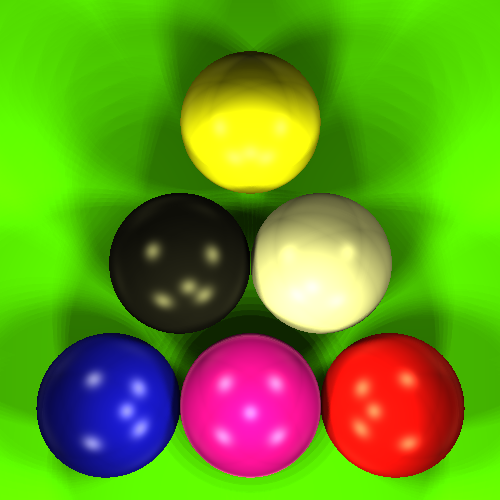
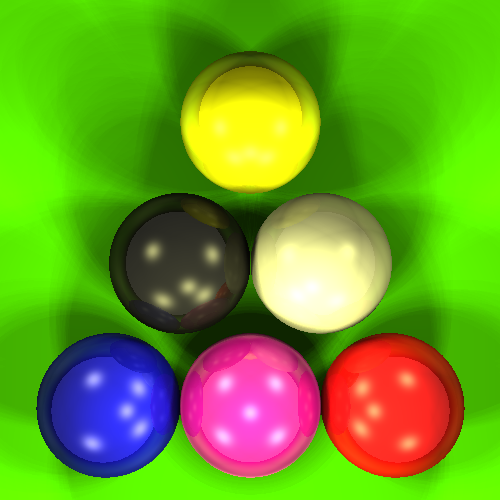
Added reflection

diff --git a/utils.py b/utils.py
@@ -12,6 +12,22 @@ def normalize(vector):
 def vector_dot(vec1, vec2):
     return np.sum(vec1 * vec2, axis=-1, keepdims=True)
 
+def render_img(scene, camera_ray_origins, camera_ray_directions):
+    img = np.full((camera_ray_origins.shape[0], 3), scene.settings.background_color, dtype=float)
+
+    t, nearest_objects = find_intersection(scene, camera_ray_origins, camera_ray_directions)
+    mask_inter = nearest_objects >= 0
+    img[mask_inter] = find_color(scene,
+                                 t[mask_inter],
+                                 nearest_objects[mask_inter],
+                                 camera_ray_origins[mask_inter],
+                                 camera_ray_directions[mask_inter])
+
+    img = np.clip(img, 0, 1) * 255.
+    img = img.astype(np.uint8)
+
+    return img
+
 def find_intersection(scene, ray_origins, ray_directions):
     min_t = np.full(ray_origins.shape[0], np.inf, dtype=float)
     nearest_objects = np.full(ray_origins.shape[0], -1, dtype=int)
@@ -28,74 +44,89 @@ def find_intersection(scene, ray_origins, ray_directions):
 
     return min_t, nearest_objects
 
-def find_color(scene, t, nearest_objects, camera_ray_origins, camera_ray_directions, img_height, img_width):
-    inter_points = camera_ray_origins + np.expand_dims(t, 1) * camera_ray_directions
-    mask_inter = nearest_objects >= 0
-    normals = np.empty((camera_ray_origins.shape[0], 3), dtype=float)
-    diff_colors = np.empty((camera_ray_origins.shape[0], 3), dtype=float)
-    spec_colors = np.empty((camera_ray_origins.shape[0], 3), dtype=float)
-    phong_coeffs = np.empty((camera_ray_origins.shape[0]), dtype=float)
+def find_color(scene, t, nearest_objects, source_ray_origins, source_ray_directions, recursion_count=1):
+    """
+    :param source_ray_origins: All the rays starting points (originally the camera)
+    :param source_ray_directions: All the rays directions (originally the intersection point)
+    """
+    inter_points = source_ray_origins + np.expand_dims(t, 1) * source_ray_directions
+    normals = np.empty((source_ray_origins.shape[0], 3), dtype=float)
+    diff_colors = np.empty((source_ray_origins.shape[0], 3), dtype=float)
+    spec_colors = np.empty((source_ray_origins.shape[0], 3), dtype=float)
+    phong_coeffs = np.empty((source_ray_origins.shape[0]), dtype=float)
+    reflect_colors = np.empty((source_ray_origins.shape[0], 3), dtype=float)
 
     for i in range(normals.shape[0]):
         object_idx = nearest_objects[i]
-        if object_idx >= 0:
-            normals[i] = scene.objects[object_idx].get_normal(inter_points[i])
-            diff_colors[i] = scene.objects[object_idx].material.diffuse_color
-            spec_colors[i] = scene.objects[object_idx].material.specular_color
-            phong_coeffs[i] = scene.objects[object_idx].material.phong_specularity_coefficient
+        # if object_idx >= 0:
+        normals[i] = scene.objects[object_idx].get_normal(inter_points[i])
+        diff_colors[i] = scene.objects[object_idx].material.diffuse_color
+        spec_colors[i] = scene.objects[object_idx].material.specular_color
+        phong_coeffs[i] = scene.objects[object_idx].material.phong_specularity_coefficient
+        reflect_colors[i] = scene.objects[object_idx].material.reflection_color
 
-    colors = calc_diffuse_specular_color(scene,
+    diff_spec_colors = calc_diffuse_specular_color(scene,
                                          inter_points,
-                                         camera_ray_directions,
+                                         source_ray_directions,
                                          normals,
                                          diff_colors,
                                          spec_colors,
-                                         phong_coeffs,
-                                         mask_inter)
+                                         phong_coeffs)
 
-    return colors.reshape(img_height, img_width, 3)
+    reflection_colors = np.full_like(diff_spec_colors, scene.settings.background_color, dtype=float)
 
-def calc_diffuse_specular_color(scene, inter_points, camera_ray_directions, normals, p_diff_colors, p_spec_colors, p_phong_coeffs, mask_inter):
-    colors = np.full_like(p_diff_colors, scene.settings.background_color, dtype=float)
-    diff_colors = np.zeros_like(p_diff_colors, dtype=float)
-    specular_colors = np.zeros_like(p_spec_colors, dtype=float)
+    if recursion_count < scene.settings.max_recursion:
+        # ref_directions = 2 * vector_dot(source_ray_directions, normals) * normals - source_ray_directions
+        ref_directions = source_ray_directions - 2 * vector_dot(source_ray_directions, normals) * normals
+        ref_t, ref_nearest_objects = find_intersection(scene, inter_points, ref_directions)
+        mask_ref_inter = ref_nearest_objects >= 0
 
-    for light in scene.lights[:]:
-        light_ray_hits = is_soft_shadowed(light, inter_points, scene, normals, mask_inter)#np.ones(normals.shape[0], dtype=float)
-        ray_directions = np.empty_like(inter_points, float)
-        ray_directions[mask_inter] = normalize(inter_points[mask_inter] - light.position)
+        if mask_ref_inter.any():
+            reflection_colors[mask_ref_inter] = find_color(scene,
+                                                           ref_t[mask_ref_inter],
+                                                           ref_nearest_objects[mask_ref_inter],
+                                                           inter_points[mask_ref_inter],
+                                                           ref_directions[mask_ref_inter],
+                                                           recursion_count + 1)
+    reflection_colors *= reflect_colors
 
-        ####### Diffuse color #######
-        curr_diff_color = np.zeros_like(diff_colors, dtype=float)
-        curr_diff_color[mask_inter] = \
-            np.abs(vector_dot(normals[mask_inter], ray_directions[mask_inter])) * \
-            p_diff_colors[mask_inter] * light.light_color
-
-        curr_diff_color[mask_inter] *= ((1 - light.shadow_intensity) + light.shadow_intensity * np.expand_dims(light_ray_hits[mask_inter], -1))
-
-        diff_colors[mask_inter] += curr_diff_color[mask_inter]
-
-        ####### Specular color #######
-        curr_specular_color = np.zeros_like(specular_colors, dtype=float)
-        R = 2 * vector_dot(ray_directions[mask_inter], normals[mask_inter]) * normals[mask_inter] - ray_directions[mask_inter]
-
-        a = p_spec_colors[mask_inter]
-        b = np.power(vector_dot(R,-camera_ray_directions[mask_inter]), np.expand_dims(p_phong_coeffs[mask_inter], -1))
-        c = light.light_color * light.specular_intensity
-        curr_specular_color[mask_inter] = a * b * c
-
-        curr_specular_color[mask_inter] *= ((1 - light.shadow_intensity) + light.shadow_intensity * np.expand_dims(light_ray_hits[mask_inter], -1))
-
-        specular_colors[mask_inter] += curr_specular_color[mask_inter]
-
-    colors[mask_inter] = diff_colors[mask_inter] + specular_colors[mask_inter]
-    colors = np.clip(colors, 0, 1) * 255.
-    colors = colors.astype(np.uint8)
+    colors = diff_spec_colors + reflection_colors
 
     return colors
 
-def is_soft_shadowed(light, inter_points, scene, normals, mask_inter):
-    ray_directions = normalize(inter_points[mask_inter] - light.position)
+def calc_diffuse_specular_color(scene, inter_points, source_ray_directions, normals, p_diff_colors, p_spec_colors, p_phong_coeffs):
+    diff_colors = np.zeros_like(p_diff_colors, dtype=float)
+    specular_colors = np.zeros_like(p_spec_colors, dtype=float)
+
+    for light in scene.lights:
+        light_ray_hits = is_soft_shadowed(light, inter_points, scene, normals)
+        light_ray_directions = normalize(inter_points - light.position)
+
+        ####### Diffuse color #######
+        curr_diff_color = \
+            np.abs(vector_dot(normals, light_ray_directions)) * \
+            p_diff_colors * light.light_color
+
+        curr_diff_color *= ((1 - light.shadow_intensity) + light.shadow_intensity * np.expand_dims(light_ray_hits, -1))
+
+        diff_colors += curr_diff_color
+
+        ####### Specular color #######
+        R = 2 * vector_dot(light_ray_directions, normals) * normals- light_ray_directions
+
+        s1 = p_spec_colors
+        s2 = np.power(vector_dot(R, -source_ray_directions), np.expand_dims(p_phong_coeffs, -1))
+        s3 = light.light_color * light.specular_intensity
+        curr_specular_color = s1 * s2 * s3
+
+        curr_specular_color *= ((1 - light.shadow_intensity) + light.shadow_intensity * np.expand_dims(light_ray_hits, -1))
+
+        specular_colors += curr_specular_color
+
+    return diff_colors + specular_colors
+
+def is_soft_shadowed(light, inter_points, scene, normals):
+    ray_directions = normalize(inter_points - light.position)
     ray_hits = np.zeros(inter_points.shape[0], int)
 
     Vz = ray_directions
@@ -118,9 +149,9 @@ def is_soft_shadowed(light, inter_points, scene, normals, mask_inter):
         point = np.copy(P_0)
         for j in range(scene.settings.soft_shadow_N):
             idx = i * scene.settings.soft_shadow_N + j
-            ray_origins[:, idx] = inter_points[mask_inter] + (normals[mask_inter] * 1e-3)
+            ray_origins[:, idx] = inter_points + (normals * 1e-3)
             rand_point = point + np.random.uniform() * move_y + np.random.uniform() * move_x
-            ray_directions[:, idx] = normalize(rand_point - inter_points[mask_inter] + (normals[mask_inter] * 1e-3))
+            ray_directions[:, idx] = normalize(rand_point - inter_points + (normals * 1e-3))
 
             point += move_x
         P_0 += move_y
@@ -129,10 +160,10 @@ def is_soft_shadowed(light, inter_points, scene, normals, mask_inter):
     t = t.reshape(ray_directions.shape[0], N_squared)
     nearest_objects = nearest_objects.reshape(ray_directions.shape[0], N_squared)
 
-    ray_hits[mask_inter] = N_squared - \
+    ray_hits = N_squared - \
                            np.sum(
                                np.logical_and(
-                                   t < np.expand_dims(np.linalg.norm(light.position - inter_points[mask_inter], axis=-1), -1),
+                                   t < np.expand_dims(np.linalg.norm(light.position - inter_points, axis=-1), -1),
                                    (nearest_objects >= 0)
                                ), axis=-1
                            )

diff --git a/RayTracer.py b/RayTracer.py
@@ -6,7 +6,7 @@ from PIL import Image
 
 import modules.sphere
 from modules.Scene import Scene
-from utils import normalize, find_intersection, find_color
+from utils import normalize, render_img
 
 def read_args():
     parser = argparse.ArgumentParser(description='Ray tracer running script')
@@ -46,8 +46,6 @@ def main():
     args = read_args()
     scene = read_scene(args.scene_path)
 
-    img = np.zeros((args.img_height, args.img_width, 3), dtype=np.uint8)
-
     # Calculate normalize screen vectors
     Vx, Vy, Vz = calc_screen_vectors(scene)
 
@@ -77,9 +75,8 @@ def main():
     camera_ray_origins = camera_ray_origins.reshape(-1, 3)
     camera_ray_directions = camera_ray_directions.reshape(-1, 3)
 
-    t, nearest_objects = find_intersection(scene, camera_ray_origins, camera_ray_directions)
-
-    img = find_color(scene, t, nearest_objects, camera_ray_origins, camera_ray_directions, args.img_height, args.img_width)
+    img = render_img(scene, camera_ray_origins, camera_ray_directions)
+    img = img.reshape(args.img_height, args.img_width, 3)
 
     print(f'Render took {time.time() - start} seconds')
 

diff --git a/modules/sphere.py b/modules/sphere.py
@@ -2,7 +2,7 @@ import numpy as np
 from modules.entity import Entity
 from modules.ray import Ray
 
-from utils import normalize, calc_diffuse_specular_color
+from utils import normalize
 
 class Sphere(Entity):
     def __init__(self, params, materials):
